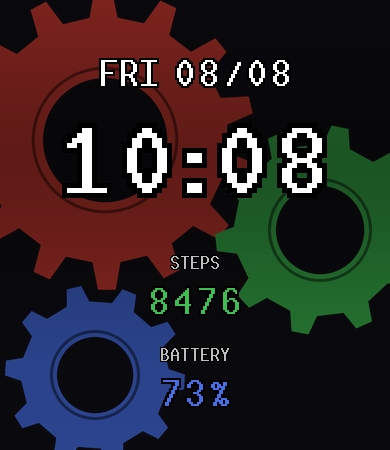
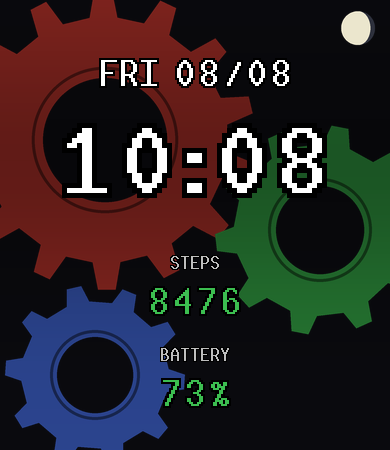
Green battery digits + moon phase indicator
Battery digits/percent switch from blue to the steps green so they no
longer blend into the blue gear behind them. New 36px moon-phase disc in
the top-right corner: IMG_LEVEL bound to data_type.MOON (lunar day 0..28),
with 29 sphere-shaded discs generated in gen_assets.py, matching the
official color-world 1.0 sample's contract.

Claude-Session: https://claude.ai/code/session_01FSTcFsrW1xgLMtmwwzbJya

Changed region(s): [[0.8615, 0.0, 0.9846, 0.1244], [0.4308, 0.84, 0.5846, 0.9022]]

diff --git a/watchface/index.js b/watchface/index.js
@@ -18,6 +18,10 @@ const dateDigits = digitArray('date')
 const stepDigits = digitArray('steps')
 const battDigits = digitArray('batt')
 
+// lunar day 0..28 (0 = new, ~14 = full), indexed by data_type.MOON's level
+const moonArray = []
+for (let i = 0; i < 29; i++) moonArray.push('moon/' + i + '.png')
+
 // MON-first, matching Zepp OS week numbering (1 = Monday)
 const weekArray = [
   'week/0.png',
@@ -37,6 +41,16 @@ WatchFace({
       x: 0,
       y: 0,
       src: 'background.png'
+    })
+
+    // moon phase disc, top-right corner (MOON_X/MOON_Y in gen_assets.py)
+    hmUI.createWidget(hmUI.widget.IMG_LEVEL, {
+      x: 340,
+      y: 10,
+      image_array: moonArray,
+      image_length: moonArray.length,
+      type: hmUI.data_type.MOON,
+      show_level: hmUI.show_level.ONLY_NORMAL
     })
 
     // WEEK MM/DD row — week images 64px wide + 12px gap, digits 24px, slash 24px

diff --git a/gen_assets.py b/gen_assets.py
@@ -15,10 +15,13 @@ Produces, under assets/bip6/:
   date/slash.png          '/' separator
   week/0.png..6.png       MON..SUN day abbreviations (scale 2)
   steps/0.png..9.png      green digits (scale 2)
-  batt/0.png..9.png       blue digits (scale 2)
-  batt/percent.png        blue '%' unit
+  batt/0.png..9.png       green digits (scale 2; green, not blue, so they
+                          don't blend into the blue gear behind them)
+  batt/percent.png        green '%' unit
   label_steps.png         'STEPS' label
   label_batt.png          'BATTERY' label
+  moon/0.png..28.png      36px moon-phase discs for IMG_LEVEL (data_type.MOON
+                          reports lunar day 0..28; 0 = new, ~14 = full)
 """
 import gzip
 import math
@@ -138,14 +141,44 @@ def make_fonts():
         pixel_text(str(i), 5, WHITE, os.path.join(OUT, "time", f"{i}.png"))
         pixel_text(str(i), 2, WHITE, os.path.join(OUT, "date", f"{i}.png"))
         pixel_text(str(i), 2, GREEN, os.path.join(OUT, "steps", f"{i}.png"))
-        pixel_text(str(i), 2, BLUE, os.path.join(OUT, "batt", f"{i}.png"))
+        pixel_text(str(i), 2, GREEN, os.path.join(OUT, "batt", f"{i}.png"))
     pixel_text(":", 5, WHITE, os.path.join(OUT, "time", "colon.png"), crop_w=True)
     pixel_text("/", 2, WHITE, os.path.join(OUT, "date", "slash.png"))
-    pixel_text("%", 2, BLUE, os.path.join(OUT, "batt", "percent.png"))
+    pixel_text("%", 2, GREEN, os.path.join(OUT, "batt", "percent.png"))
     for i, name in enumerate(WEEKDAYS):
         pixel_text(name, 2, WHITE, os.path.join(OUT, "week", f"{i}.png"))
     pixel_text("STEPS", 1, GRAY, os.path.join(OUT, "label_steps.png"))
     pixel_text("BATTERY", 1, GRAY, os.path.join(OUT, "label_batt.png"))
+
+
+def make_moon():
+    """29 moon-phase discs. Illumination from sphere-shading: sun direction
+    rotates through the synodic cycle, lit side on the right while waxing
+    (northern-hemisphere convention)."""
+    os.makedirs(os.path.join(OUT, "moon"), exist_ok=True)
+    size = 36
+    n = size * SS
+    r = n / 2 - SS  # leave a hair of margin
+    cx = cy = n / 2
+    LIT = (235, 230, 205)
+    DARK = (45, 48, 60)
+    for day in range(29):
+        alpha = 2 * math.pi * day / 29.0  # 0 = new, pi = full
+        sin_a, cos_a = math.sin(alpha), math.cos(alpha)
+        img = Image.new("RGBA", (n, n), (0, 0, 0, 0))
+        pix = img.load()
+        for py in range(n):
+            ny = (py - cy) / r
+            for px_ in range(n):
+                nx = (px_ - cx) / r
+                d2 = nx * nx + ny * ny
+                if d2 > 1.0:
+                    continue
+                z = math.sqrt(1.0 - d2)
+                lit = nx * sin_a - z * cos_a > 0
+                pix[px_, py] = (LIT if lit else DARK) + (255,)
+        img = img.resize((size, size), Image.LANCZOS)
+        img.save(os.path.join(OUT, "moon", f"{day}.png"))
 
 
 def make_icon():
@@ -181,6 +214,7 @@ def make_preview(bg):
     paste_row(["steps/8.png", "steps/4.png", "steps/7.png", "steps/6.png"], 280)
     paste_row(["label_batt.png"], 344)
     paste_row(["batt/7.png", "batt/3.png", "batt/percent.png"], 372)
+    paste("moon/18.png", MOON_X, MOON_Y)  # waning gibbous sample
     img.convert("RGB").save(os.path.join(OUT, "preview.png"))
 
 
@@ -188,7 +222,11 @@ if __name__ == "__main__":
     os.makedirs(OUT, exist_ok=True)
     bg = make_background()
     make_fonts()
+    make_moon()
     make_icon()
+
+    # moon disc in the free top-right corner, above the date row
+    MOON_X, MOON_Y = W - 36 - 14, 10
 
     # layout constants shared with watchface/index.js — keep in sync
     digit_w = Image.open(os.path.join(OUT, "date", "0.png")).width       # 24
